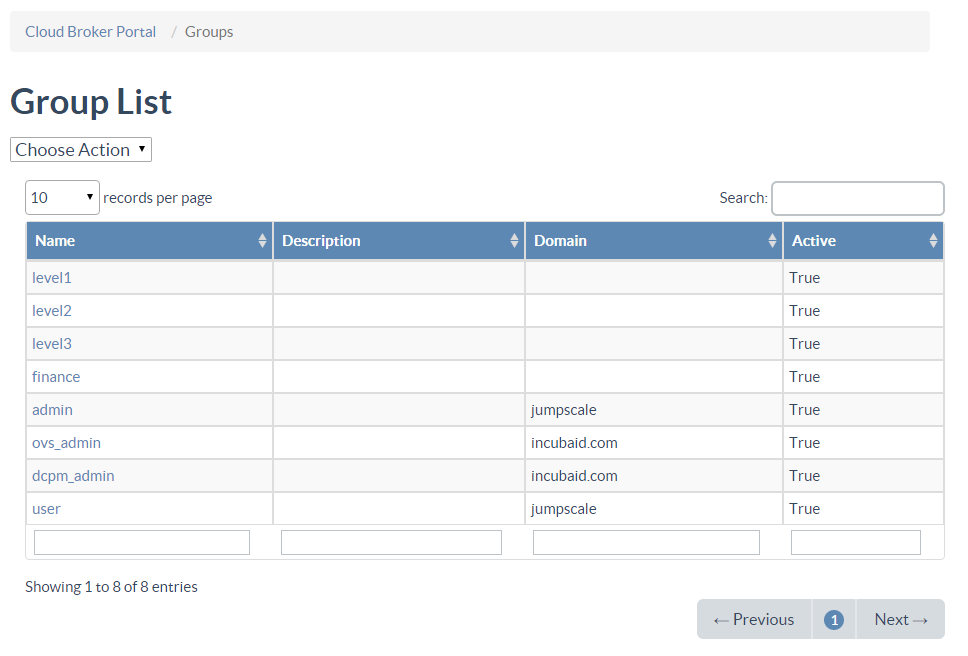
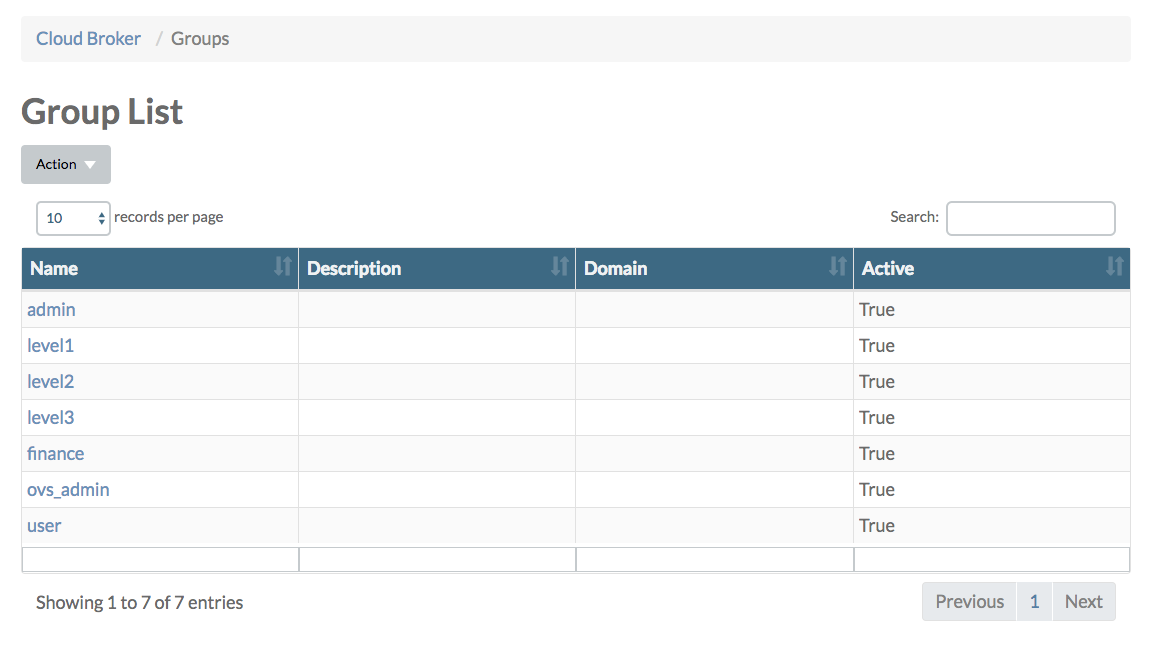
update the Groups documentation

diff --git a/docs/CloudBrokerPortal/Groups/Groups.md b/docs/CloudBrokerPortal/Groups/Groups.md
@@ -1,124 +1,158 @@
 ## Groups
 
-Users need to be member of specific groups in order to have access to the OpenvCloud portals.
+In order for users to have access to the various OpenvCloud portals they need to be member of specific groups.
 
-OpenvCloud comes with following predefined groups:
+The **Groups** page lists all groups:
 
-- **user** members have access to the **End User Portal**
+![](Groups.png)
 
-  - **finance** members have access to the code **Consumption** information within the **End User Portal**
+There are three main groups:
 
-- **admin** members have access to the **At Your Service Portal**, **Cloud Broker Portal**, **Statistics Portal**, **Grid Portal** and **System Portal**
+- The **user** group for restricting which users have access to the [End User Portal](#end-user)
+- The **admin** group for restricting which users have access to the [Operator Portals](#operator)
+- The **ovs_storage** group for restricing which user have access to the [Storage Portal](#storage)
 
-  - **level1** members can only use the "level 1" **Cloud Broker Portal** actions, which are (group per domain):
+More details and all other groups are discussed below.
 
-    - Accounts
-      - Disabling accounts
-      - Creating accounts
-      - Enabling accounts
-      - Renaming accounts
-      - Deleting accounts
-      - Adding users to an account
-      - Deleting users from an account
+Clicking the **Name** of a group in the **Groups** table brings you to the **Group Details** page of that group:
 
-    - Cloud Spaces
-      - Create cloud spaces
-      - Delete cloud spaces
-      - Rename cloud spaces
-      - Add users to a cloud space
-      - Delete users from a cloud space
-      - Delete Port Forwarding
+![](GroupDetails.png)
 
-    - Private Networks
-      - Move virtual firewall to another node
-      - Reset virtual firewall
-      - Start virtual firewall
-      - Stop virtual firewall
-      - Remove virtual firewall
-      - Deploy virtual firewall (only shown on the Cloud Space Details after having removed the firewall)
-      - Add extra IP address (not exposed in default UI)
-      - Remove IP address (not exposed in default UI)
+Under **Users** all users that are member of the group are listed.
 
-    - Locations
-      - Set status (not exposed in default UI)
-      - Purge logs
-      - Check virtual machines
-      - Sync available images to Cloud Broker
-      - Sync available sizes to Cloud Broker
+By clicking the **ID** of a group you navigate to the **User Details** page of that user.
 
-    - Images
-      - Delete images
-      - Enable images
-      - Disable images
-      - Set image availability
+The **Action** drop down menu allows you to **edit** group properties or **delete** the group.
 
-    - Virtual machines
-      - Create virtual machines
-      - Create virtual machine on specific stack
-      - Delete virtual machines
-      - Start virtual machines
-      - Stop virtual machines
-      - Pause virtual machines
-      - Resume virtual machines
-      - Reboot virtual machines
-      - Take snapshots of virtual machines
-      - Rollback virtual machine to a snapshot
-      - Delete snapshot of virtual machines
-      - Clone virtual machines
-      - Move virtual machine to another stack
-      - Export virtual machines (not implemented)
-      - Restore virtual machines
-      - List exported virtual machines
-      - Tag virtual machines
-      - Untag virtual machines
-      - List virtual machines
-      - Check image chain of virtual machines
-      - Stop virtual machines for abusive resource usage
-      - Backup and destroy virtual machines
-      - List snapshots of virtual machines
-      - Get history of virtual machines
-      - List port forwards of virtual machines
-      - Create port forwards for virtual machines
-      - Delete port forwards for virtual machines
-      - Add disks to virtual machines
-      - Delete disks from virtual machines
-      - Create templates (images) of virtual machines (wich are saved to /mnt/vmstor/templates/...)
-      - Update virtual machines
-      - Attach virtual machines to public network
-      - Detach virtual machines from public network
+> Note that on the **Group** page you can also select **Add Group** from the **Actions** menu, allowing you to add/create your own groups. currently however you can't do much with this...
 
-    - Users
-      - Update password of users
-      - Create users
-      - Send reset password links to users
-      - Delete users
+<a id="end-user"></a>
+### End User Portal
 
-  - **leve2** members can only use the "level 2" **Cloud Broker Portal** actions, which are currently only the following stack/node actions available in the **Stack Details** page:
+Within the **End User Portal** specific user rights are further defined by the end user authorization model, discussed [here](/EndUSerPortal/Authorization/AuthorizationModel.md)
 
-    - **Put in Maintenance**
-    - **Enable**
-    - **Decommission**
+The **finance** group is a legacy "sub" group of the **user** group. Membership of the **finance** group was required to access the **Consumption** page in the **End User Portal**; this page got however depreciated.
 
-  - **level3** members can only use the "level 3" **Cloud Broker Portal** actions
+<a id="operator"></a>
+### Operator Portals
 
-    > Today no "level 3" functions have been defined yet, so **level 1** membership will not yield any additional privileges to an administrative user
+The **Operator Portals** include the **At Your Service Portal**, **Cloud Broker Portal**, **Statistics Portal**, **Grid Portal** and **System Portal**.
 
-- **ovs_admin** members have access to the **Storage Portal**
+Within the **Operator Portals** specific user rights are further defined by membership of one of the following "sub" groups:
 
-On the **Groups** page all these standard groups are listed:
+- [level1](#level1)
+- [level2](#level2)
+- [level3](#level3) (not used yet)
 
-![[]](Groups.png)
+> Note that membership of the **level1**, **level2** and **level3** groups also require explicit membership of the **admin** group
 
-From there you can navigate to the **Group Details** page of a group:
+<a id="level1"></a>
+**level1** members can only use the "level 1" **Cloud Broker Portal** actions:
 
-![[]](GroupDetails.png)
+| **Accounts**                                             |
+|:---------------------------------------------------------|
+| Disabling accounts                                       |
+| Creating accounts                                        |
+| Enabling accounts                                        |
+| Renaming accounts                                        |
+| Deleting accounts                                        |
+| Adding users to an account                               |
+| Deleting users from an account                           |
 
-Under **Users** al users member of the group are listed:
+| **Cloud Spaces**                                         |
+|:---------------------------------------------------------|
+| Create cloud spaces                                      |
+| Delete cloud spaces                                      |
+| Rename cloud spaces                                      |
+| Add users to a cloud space                               |
+| Delete users from a cloud space                          |
+| Delete Port Forwarding                                   |
 
-![[]](Users.png)
+| **Private Networks**                                     |
+|:---------------------------------------------------------|
+| Move virtual firewall to another node                    |
+| Reset virtual firewall                                   |
+| Start virtual firewall                                   |
+| Stop virtual firewall                                    |          
+| Remove virtual firewall                                  |
+| Deploy virtual firewall                                  |
+| Add extra IP address (not exposed in default UI)         |
+| Remove IP address (not exposed in default UI)            |
 
-By clicking the **ID** you navigate to the **User Details** page.
+| **Locations**                                            |
+|:---------------------------------------------------------|
+| Set status (not exposed in default UI)                   |
+| Purge logs                                               |
+| Check virtual machines                                   |
+| Sync available images to Cloud Broker                    |
+| Sync available sizes to Cloud Broker                     |
 
-The **Actions** menu allows you to edit group properties or delete a group.
+| **Images**                                               |
+|:---------------------------------------------------------|
+| Delete images                                            |
+| Enable images                                            |
+| Disable images                                           |
+| Set image availability                                   |
 
-On the **Group** page you can also select **Add Group** from the **Actions** menu, allowing you to add/create your own groups. currently however you can't do much with this...
+| **Virtual Machines**                                     |
+|:---------------------------------------------------------|
+| Create virtual machines                                  |
+| Create virtual machine on specific stack                 |
+| Delete virtual machines                                  |
+| Start virtual machines                                   |
+| Start virtual machines                                   |
+| Stop virtual machines                                    |
+| Pause virtual machines                                   |
+| Resume virtual machines                                  |
+| Reboot virtual machines                                  |
+| Take snapshots of virtual machines                       |
+| Rollback virtual machine to a snapshot                   |
+| Delete snapshot of virtual machines                      |
+| Clone virtual machines                                   |
+| Move virtual machine to another stack                    |
+| Export virtual machines (not implemented)                |
+| Restore virtual machines                                 |
+| List exported virtual machines                           |
+| Tag virtual machines                                     |
+| Untag virtual machines                                   |
+| List virtual machines                                    |
+| Check image chain of virtual machines                    |
+| Stop virtual machines for abusive resource usage         |
+| Backup and destroy virtual machines                      |
+| List snapshots of virtual machines                       |
+| Get history of virtual machines                          |
+| List port forwards of virtual machines                   |
+| Create port forwards for virtual machines                |
+| Delete port forwards for virtual machines                |
+| Add disks to virtual machines                            |
+| Delete disks from virtual machines                       |
+| Create templates (images) of virtual machines            |
+| Update virtual machines                                  |
+| Attach virtual machines to public network                |
+| Detach virtual machines from public network              |
+
+| **User**                                                 |
+|:---------------------------------------------------------|
+| Update password of users                                 |
+| Create users                                             |
+| Send reset password links to users                       |
+| Delete users                                             |
+
+
+<a id="level2"></a>
+**leve2** members can only use the "level 2" **Cloud Broker Portal** actions, which are currently only the following stack actions, available in the **Stack Details** page:
+
+- **Enable**
+- **Put in Maintenance**
+- **Decommission**
+
+
+<a id="level3"></a>
+**level3** members can only use the "level 3" **Cloud Broker Portal** actions
+
+> Currently no "level 3" functions have been defined yet, so **level 3** membership will not yield any additional privileges to a user with **admin** group membership.
+
+<a id="storage"></a>
+### Storage Portal
+
+In order to have access to the **Storage Portal**, **ovs_admin** membership is required.

diff --git a/docs/EndUserPortal/Authorization/AuthorizationModel.md b/docs/EndUserPortal/Authorization/AuthorizationModel.md
@@ -1,6 +1,6 @@
-## End User Portal Authorization Model
+## End User Authorization Model
 
-In order for a user to have access to the **End User Portal** group membership to the system group **user** is required. For more details about group membership, see the **Groups** page in the **Cloud Broker Portal** and the [Groups Documentation](../../CloudBrokerPortal/Groups/Groups.md).
+In order for a user to have access to the **End User Portal** group membership to the system group **user** is required. For more details about group membership, see the **Groups** page in the **Cloud Broker Portal** and the [Groups Documentation](/CloudBrokerPortal/Groups/Groups.md).
 
 Once access to the **End User Portal** actual privileges are determined by the rights (read, write, admin) granted to the user, this at the level of [Accounts](#account), [Cloud Spaces](#cloud-space), and [Virtual Machines](#virtual-machine).
 

diff --git a/docs/CloudBrokerPortal/VirtualMachines/VirtualMachines.md b/docs/CloudBrokerPortal/VirtualMachines/VirtualMachines.md
@@ -10,7 +10,7 @@ From here you can go to the **Virtual Machine Details** page for a virtual machi
 
 From the **Actions** dropdown menu you can:
 - Start, stop, reboot, pause, delete and clone a virtual machine
-- Create a template from the virtual machine
+- Create a template from the virtual machine (which are saved to `/mnt/vmstor/templates/`)
 - Update the virtual machine
 - Check image chain
 - [Move to another CPU node](Actions/MoveVM2AnotherCPUNode.md)
